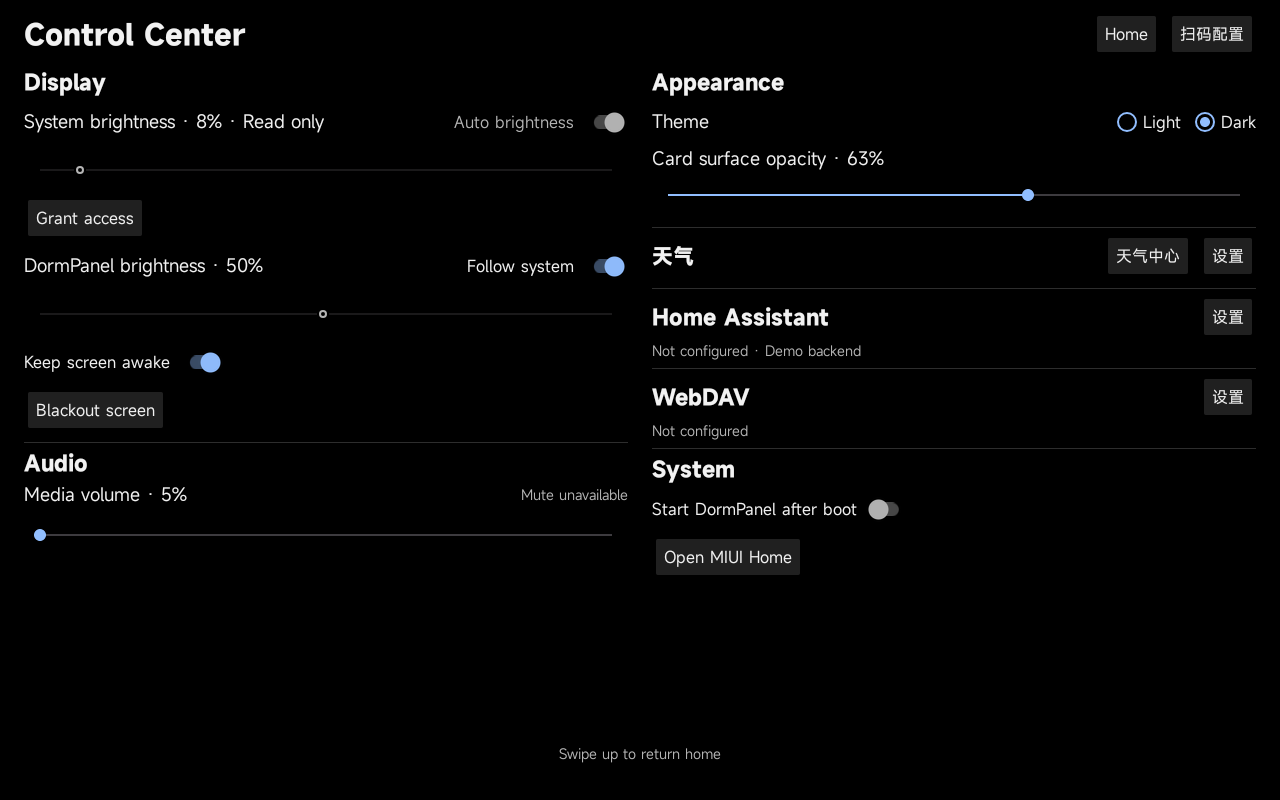
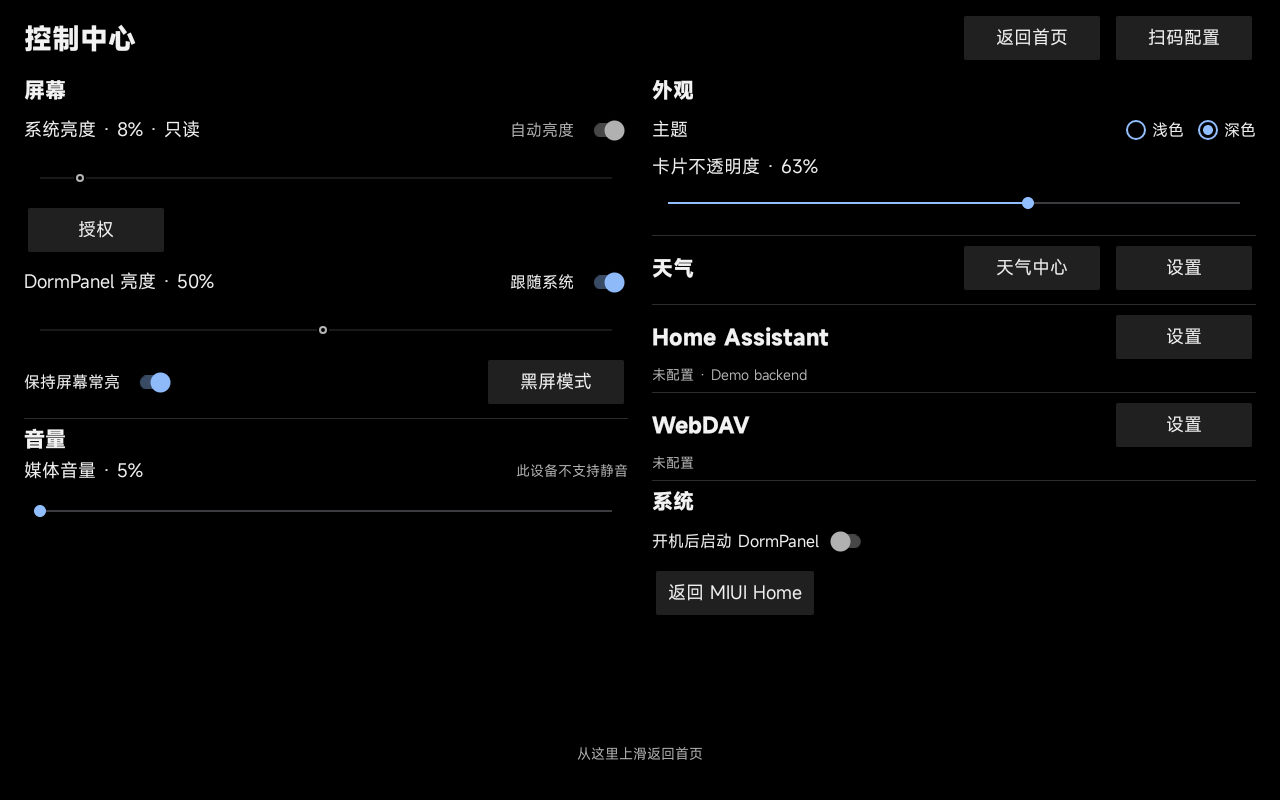
放宽控制中心按钮并补齐中文界面

diff --git a/app/src/androidTest/java/com/dormpanel/app/ControlCenterAndroidTest.kt b/app/src/androidTest/java/com/dormpanel/app/ControlCenterAndroidTest.kt
@@ -65,16 +65,17 @@ class ControlCenterAndroidTest {
         try {
             ActivityScenario.launch(MainActivity::class.java).use { scenario ->
                 openControlCenter()
-                onView(withText("Not configured · Demo backend")).check(matches(isDisplayed()))
-                onView(withText("Not configured")).check(matches(isDisplayed()))
-                onView(withText("Mute unavailable")).check(matches(isDisplayed()))
-                onView(withText("Mute")).check(matches(not(isDisplayed())))
-                onView(withContentDescription("Allow system brightness control")).check(matches(isDisplayed()))
-                onView(withContentDescription("System brightness")).check(matches(isNotEnabled()))
-                checkHeadingAction("Home Assistant", "Home Assistant settings")
+                onView(withText("${context.getString(R.string.control_center_not_configured)} · Demo backend")).check(matches(isDisplayed()))
+                onView(withText(R.string.control_center_not_configured)).check(matches(isDisplayed()))
+                onView(withText(R.string.control_center_mute_unavailable)).check(matches(isDisplayed()))
+                onView(withText(R.string.control_center_mute)).check(matches(not(isDisplayed())))
+                onView(withContentDescription(R.string.control_center_grant_description)).check(matches(isDisplayed()))
+                onView(withContentDescription(R.string.control_center_system_brightness)).check(matches(isNotEnabled()))
+                checkInlineAction(withText("Home Assistant"), withContentDescription(R.string.ha_settings))
                 checkHeadingAction("WebDAV", "WebDAV 连接设置")
+                checkInlineAction(withText(R.string.control_center_awake), withText(R.string.control_center_blackout))
 
-                onView(withContentDescription("Home Assistant settings")).perform(click())
+                onView(withContentDescription(R.string.ha_settings)).perform(click())
                 onView(withText("Home Assistant base URL")).inRoot(isDialog()).check(matches(isDisplayed()))
                 onView(withText("Close")).inRoot(isDialog()).perform(click())
                 onView(withContentDescription("WebDAV 连接设置")).perform(click())
@@ -94,10 +95,10 @@ class ControlCenterAndroidTest {
                     assertEquals(!(savedBoot ?: false), enabled)
                     assertEquals(enabled, it.findViewById<CompoundButton>(R.id.start_after_boot).isChecked)
                 }
-                onView(withText("Blackout screen")).perform(scrollTo(), click())
+                onView(withText(R.string.control_center_blackout)).perform(scrollTo(), click())
                 onView(withId(R.id.blackout_surface)).check(matches(isDisplayed())).perform(click())
-                onView(withContentDescription("Return to DormPanel home")).perform(click())
-                onView(withText("Control Center")).check(doesNotExist())
+                onView(withContentDescription(R.string.control_center_home_description)).perform(click())
+                onView(withText(R.string.control_center_title)).check(doesNotExist())
             }
         } finally {
             ha.write(savedHa)
@@ -126,7 +127,7 @@ class ControlCenterAndroidTest {
                 val drag = GeneralSwipeAction(Swipe.FAST,
                     { view -> point(view, .50f, .88f) }, { view -> point(view, .50f, .15f) }, Press.FINGER)
                 repeat(3) { scroll.perform(drag) }
-                onView(withText("Control Center")).check(matches(isDisplayed()))
+                onView(withText(R.string.control_center_title)).check(matches(isDisplayed()))
                 onView(withId(R.id.open_miui_home)).check(matches(isDisplayed()))
                 scenario.onActivity {
                     val viewport = it.findViewById<ScrollView>(R.id.control_center_scroll)
@@ -138,13 +139,13 @@ class ControlCenterAndroidTest {
                     assertEquals(savedOffset, viewport.scrollY)
                 }
                 scenario.recreate()
-                onView(withText("Control Center")).check(matches(isDisplayed()))
+                onView(withText(R.string.control_center_title)).check(matches(isDisplayed()))
                 val footer = onView(withText(R.string.return_home_up))
                 footer.perform(GeneralSwipeAction(Swipe.FAST,
                     { view -> point(view, .50f, .5f) },
                     { view -> point(view, .50f, .5f).apply { this[1] -= 160 } },
                     Press.FINGER))
-                onView(withText("Control Center")).check(doesNotExist())
+                onView(withText(R.string.control_center_title)).check(doesNotExist())
             }
         } finally {
             store.write(previous)
@@ -166,7 +167,7 @@ class ControlCenterAndroidTest {
                     val backend = ViewModelProvider(it)[DashboardViewModel::class.java].dataSource
                     backend.ha.configure(HaConnectionSettings(BackendMode.HOME_ASSISTANT, endpoint), "test")
                 }
-                val text = "Authentication error · Authentication rejected; re-enter credentials."
+                val text = "${context.getString(R.string.control_center_auth_error)} · Authentication rejected; re-enter credentials."
                 val statusText = onView(withText(text))
                 val deadline = android.os.SystemClock.uptimeMillis() + 5000
                 var ready = false
@@ -183,9 +184,9 @@ class ControlCenterAndroidTest {
                     if (error != null) throw error
                     (view as TextView).text = longText
                 }
-                checkHeadingAction("Home Assistant", "Home Assistant settings")
+                checkInlineAction(withText("Home Assistant"), withContentDescription(R.string.ha_settings))
                 val actionBounds = Rect()
-                onView(withContentDescription("Home Assistant settings")).check { view, _ ->
+                onView(withContentDescription(R.string.ha_settings)).check { view, _ ->
                     assertTrue(view.getGlobalVisibleRect(actionBounds))
                 }
                 onView(withText(longText)).check { view, _ ->
@@ -218,10 +219,10 @@ class ControlCenterAndroidTest {
                 for (mode in ThemeMode.entries) panel.applyAppearance(model.appearance.state.copy(themeMode = mode))
                 assertEquals(1.5f, panel.resources.configuration.fontScale, 0f)
             }
-            checkHeadingAction("Home Assistant", "Home Assistant settings")
+            checkInlineAction(withText("Home Assistant"), withContentDescription(R.string.ha_settings))
             checkHeadingAction("WebDAV", "WebDAV 连接设置")
-            onView(withText("Not configured · Demo backend")).check(matches(isDisplayed()))
-            onView(withText("Follow system")).check(matches(isDisplayed()))
+            onView(withText("${context.getString(R.string.control_center_not_configured)} · Demo backend")).check(matches(isDisplayed()))
+            onView(withText(R.string.control_center_follow)).check(matches(isDisplayed()))
             onView(withId(R.id.open_miui_home)).perform(scrollTo()).check(matches(isDisplayed()))
             onView(withContentDescription("天气服务与地点")).perform(scrollTo(), click())
             onView(withText("搜索城市或区县")).inRoot(isDialog()).check(matches(isDisplayed()))
@@ -266,21 +267,21 @@ class ControlCenterAndroidTest {
                 }
                 panel.applyAppearance(model.appearance.state)
             }
-            onView(withText("Mute")).perform(click())
+            onView(withText(R.string.control_center_mute)).perform(click())
             assertTrue(muted)
-            onView(withText("Unmute")).perform(click())
+            onView(withText(R.string.control_center_unmute)).perform(click())
             assertFalse(muted)
             scenario.onActivity {
                 volume = 8
                 device.refreshAudio()
             }
-            onView(withText("Media volume · 80%")).check(matches(isDisplayed()))
-            onView(withContentDescription("Media volume")).check { view, _ -> assertEquals(0, (view as SeekBar).min) }
-            onView(withContentDescription("System brightness")).check(matches(isNotEnabled()))
-            onView(withContentDescription("Automatic system brightness")).perform(click())
-            onView(withContentDescription("System brightness")).check(matches(isEnabled()))
-            onView(withText("Follow system")).perform(click())
-            onView(withContentDescription("DormPanel brightness")).check(matches(isNotEnabled()))
+            onView(withText(context.getString(R.string.control_center_volume_value, 80))).check(matches(isDisplayed()))
+            onView(withContentDescription(R.string.control_center_volume)).check { view, _ -> assertEquals(0, (view as SeekBar).min) }
+            onView(withContentDescription(R.string.control_center_system_brightness)).check(matches(isNotEnabled()))
+            onView(withContentDescription(R.string.control_center_auto_description)).perform(click())
+            onView(withContentDescription(R.string.control_center_system_brightness)).check(matches(isEnabled()))
+            onView(withText(R.string.control_center_follow)).perform(click())
+            onView(withContentDescription(R.string.control_center_brightness)).check(matches(isNotEnabled()))
         }
     }
 
@@ -290,12 +291,18 @@ class ControlCenterAndroidTest {
 
     private fun openControlCenter() = onView(withId(R.id.page_container)).perform(swipeDown())
 
-    private fun checkHeadingAction(title: String, description: String) {
+    private fun checkHeadingAction(title: String, description: String) =
+        checkInlineAction(withText(title), withContentDescription(description))
+
+    private fun checkInlineAction(leading: org.hamcrest.Matcher<View>, trailing: org.hamcrest.Matcher<View>) {
         val heading = Rect()
-        onView(withText(title)).check { view, _ -> assertTrue(view.getGlobalVisibleRect(heading)) }
-        onView(withContentDescription(description)).check { view, _ ->
+        onView(leading).check { view, _ -> assertTrue(view.getGlobalVisibleRect(heading)) }
+        onView(trailing).check { view, _ ->
             val action = Rect()
             assertTrue(view.getGlobalVisibleRect(action))
+            val density = view.resources.displayMetrics.density
+            assertTrue(action.height() >= (56 * density).toInt())
+            assertTrue(action.width() >= (144 * density).toInt())
             assertTrue(heading.right <= action.left)
             assertTrue(heading.centerY() in action.top until action.bottom)
         }

diff --git a/app/src/main/java/com/dormpanel/app/ui/ControlCenterView.kt b/app/src/main/java/com/dormpanel/app/ui/ControlCenterView.kt
@@ -75,19 +75,19 @@ class ControlCenterView(
 
     private val brightnessLabel = label(size = 18f)
     private val systemLabel = label(size = 18f)
-    private val systemBrightness = slider("System brightness").apply { min = 1 }
-    private val automatic = toggle("Auto brightness").apply { contentDescription = "Automatic system brightness" }
-    private val followSystem = toggle("Follow system")
-    private val allowSystem = action("Grant access", "Allow system brightness control", ::requestBrightnessAccess)
+    private val systemBrightness = slider(context.getString(R.string.control_center_system_brightness)).apply { min = 1 }
+    private val automatic = toggle(context.getString(R.string.control_center_auto)).apply { contentDescription = context.getString(R.string.control_center_auto_description) }
+    private val followSystem = toggle(context.getString(R.string.control_center_follow))
+    private val allowSystem = action(context.getString(R.string.control_center_grant), context.getString(R.string.control_center_grant_description), ::requestBrightnessAccess)
     private val permissionStatus = secondaryLabel().apply { visibility = GONE }
     private val volumeLabel = label(size = 18f)
-    private val muteUnavailable = secondaryLabel("Mute unavailable")
+    private val muteUnavailable = secondaryLabel(context.getString(R.string.control_center_mute_unavailable))
     private val opacityLabel = label(size = 18f)
-    private val brightness = slider("DormPanel brightness").apply { min = 1 }
-    private val volume = slider("Media volume")
+    private val brightness = slider(context.getString(R.string.control_center_brightness)).apply { min = 1 }
+    private val volume = slider(context.getString(R.string.control_center_volume))
     private val opacity = slider(context.getString(R.string.card_opacity))
-    private val keepAwake = toggle("Keep screen awake")
-    private val mute = action("Mute") { device.toggleMute() }
+    private val keepAwake = toggle(context.getString(R.string.control_center_awake))
+    private val mute = action(context.getString(R.string.control_center_mute)) { device.toggleMute() }
     private val haStatus = secondaryLabel()
     private val webDavStatus = secondaryLabel()
     private val startAfterBoot = toggle(context.getString(R.string.start_after_boot)).apply { id = R.id.start_after_boot }
@@ -153,12 +153,12 @@ class ControlCenterView(
         text = value
         contentDescription = description
         isAllCaps = false
-        textSize = 16f
-        minimumHeight = dp(48)
-        minHeight = dp(48)
-        minimumWidth = dp(48)
-        minWidth = dp(48)
-        setPadding(dp(12), dp(4), dp(12), dp(4))
+        textSize = 18f
+        minimumHeight = dp(56)
+        minHeight = dp(56)
+        minimumWidth = dp(144)
+        minWidth = dp(144)
+        setPadding(dp(16), dp(6), dp(16), dp(6))
         setOnClickListener {
             onGestureClaimed()
             click()
@@ -223,34 +223,38 @@ class ControlCenterView(
     }
     private val deviceListener: (DeviceControlState) -> Unit = {
         brightness.progress = it.brightness
-        brightnessLabel.text = "DormPanel brightness · ${it.brightness}%"
+        brightnessLabel.text = context.getString(R.string.control_center_brightness_value, it.brightness)
         brightness.isEnabled = !it.useSystemBrightness
         followSystem.isChecked = it.useSystemBrightness
         systemBrightness.progress = it.system.percent
         systemBrightness.isEnabled = it.system.canWrite && !it.system.automatic
         automatic.isChecked = it.system.automatic
         automatic.isEnabled = it.system.canWrite
-        systemLabel.text = "System brightness · ${it.system.percent}%${if (it.system.canWrite) "" else " · Read only"}"
+        val systemValue = context.getString(R.string.control_center_system_brightness_value, it.system.percent)
+        systemLabel.text = if (it.system.canWrite) systemValue else {
+            "$systemValue · ${context.getString(R.string.control_center_read_only)}"
+        }
         allowSystem.visibility = if (it.system.canWrite) View.GONE else View.VISIBLE
         if (it.system.canWrite) permissionStatus.visibility = View.GONE
         volume.min = if (it.muteAvailable) 0 else (100f / it.mediaMax).roundToInt()
         volume.progress = it.mediaPercent
-        volumeLabel.text = "Media volume · ${it.mediaPercent}%"
+        volumeLabel.text = context.getString(R.string.control_center_volume_value, it.mediaPercent)
         keepAwake.isChecked = it.keepAwake
         mute.visibility = if (it.muteAvailable) VISIBLE else GONE
         muteUnavailable.visibility = if (it.muteAvailable) GONE else VISIBLE
-        mute.text = if (it.muted) "Unmute" else "Mute"
+        mute.setText(if (it.muted) R.string.control_center_unmute else R.string.control_center_mute)
     }
     private val haListener: (HaStatus) -> Unit = { status ->
-        val state = when (status.state) {
-            HaConnectionState.NOT_CONFIGURED -> "Not configured"
-            HaConnectionState.CONNECTING -> "Connecting"
-            HaConnectionState.SYNCING -> "Syncing"
-            HaConnectionState.CONNECTED -> "Connected"
-            HaConnectionState.RECONNECTING -> "Reconnecting"
-            HaConnectionState.AUTH_ERROR -> "Authentication error"
-            HaConnectionState.ERROR -> "Connection error"
+        val stateLabel = when (status.state) {
+            HaConnectionState.NOT_CONFIGURED -> R.string.control_center_not_configured
+            HaConnectionState.CONNECTING -> R.string.control_center_connecting
+            HaConnectionState.SYNCING -> R.string.control_center_syncing
+            HaConnectionState.CONNECTED -> R.string.control_center_connected
+            HaConnectionState.RECONNECTING -> R.string.control_center_reconnecting
+            HaConnectionState.AUTH_ERROR -> R.string.control_center_auth_error
+            HaConnectionState.ERROR -> R.string.control_center_connection_error
         }
+        val state = context.getString(stateLabel)
         haStatus.text = if (status.detail.isBlank()) state else "$state · ${status.detail}"
     }
 
@@ -258,7 +262,7 @@ class ControlCenterView(
         orientation = VERTICAL
         setPadding(dp(24), dp(10), dp(24), dp(24))
         val title = label(context.getString(R.string.control_center_title), 28f, heading = true)
-        val home = action("Home", "Return to DormPanel home", onReturnHome)
+        val home = action(context.getString(R.string.control_center_home), context.getString(R.string.control_center_home_description), onReturnHome)
         val headerActions = listOfNotNull(home, openPortal?.let { action("扫码配置", click = it) })
         addView(row(title, *headerActions.toTypedArray()), LayoutParams(LayoutParams.MATCH_PARENT, LayoutParams.WRAP_CONTENT).apply {
             bottomMargin = dp(8)
@@ -277,22 +281,23 @@ class ControlCenterView(
         columns.addView(left, LayoutParams(0, LayoutParams.WRAP_CONTENT, 1f).apply { marginEnd = dp(24) })
         columns.addView(right, LayoutParams(0, LayoutParams.WRAP_CONTENT, 1f))
 
-        left.heading("Display")
+        left.heading(context.getString(R.string.control_center_display))
         left.addView(row(systemLabel, automatic))
         left.addView(systemBrightness)
         left.addView(allowSystem, LayoutParams(LayoutParams.WRAP_CONTENT, LayoutParams.WRAP_CONTENT))
         left.addView(permissionStatus)
         left.addView(row(brightnessLabel, followSystem))
         left.addView(brightness)
-        left.addView(keepAwake, LayoutParams(LayoutParams.WRAP_CONTENT, LayoutParams.WRAP_CONTENT))
-        left.addView(action("Blackout screen") { device.enterBlackout() },
-            LayoutParams(LayoutParams.WRAP_CONTENT, LayoutParams.WRAP_CONTENT))
-        left.heading("Audio")
+        val awakeToggle = LinearLayout(context).apply {
+            addView(keepAwake, LayoutParams(LayoutParams.WRAP_CONTENT, LayoutParams.WRAP_CONTENT))
+        }
+        left.addView(row(awakeToggle, action(context.getString(R.string.control_center_blackout)) { device.enterBlackout() }))
+        left.heading(context.getString(R.string.control_center_audio))
         left.addView(row(volumeLabel, mute, muteUnavailable))
         left.addView(volume)
 
-        right.heading("Appearance")
-        right.addView(row(label("Theme", 18f), modes))
+        right.heading(context.getString(R.string.control_center_appearance))
+        right.addView(row(label(context.getString(R.string.control_center_theme), 18f), modes))
         right.addView(opacityLabel)
         right.addView(opacity)
         if (backend != null) {
@@ -379,17 +384,16 @@ class ControlCenterView(
             context.startActivity(Intent(Settings.ACTION_MANAGE_WRITE_SETTINGS,
                 Uri.parse("package:${context.packageName}")))
         } catch (_: Exception) {
-            permissionStatus.text = "System brightness access is unavailable on this device."
+            permissionStatus.text = context.getString(R.string.control_center_grant_failed)
             permissionStatus.visibility = VISIBLE
         }
     }
 
     private fun updateWebDavStatus() {
         val account = webDavSettings?.account()
-        webDavStatus.text = if (account == null) "Not configured" else {
-            val host = Uri.parse(account.baseUrl).host
-            if (host.isNullOrBlank()) "Configured" else "Configured · $host"
-        }
+        val label = context.getString(if (account == null) R.string.control_center_not_configured else R.string.control_center_configured)
+        val host = account?.let { Uri.parse(it.baseUrl).host }
+        webDavStatus.text = if (host.isNullOrBlank()) label else "$label · $host"
     }
 
     private fun showWebDavSettings() {

diff --git a/app/src/androidTest/java/com/dormpanel/app/DeviceControlAndroidTest.kt b/app/src/androidTest/java/com/dormpanel/app/DeviceControlAndroidTest.kt
@@ -174,17 +174,17 @@ class DeviceControlAndroidTest {
         try {
             ActivityScenario.launch(MainActivity::class.java).use { scenario ->
                 onView(withId(R.id.page_container)).perform(swipeDown())
-                onView(withText("Control Center")).check(matches(isDisplayed()))
-                onView(withContentDescription("Automatic system brightness")).check(matches(isDisplayed()))
-                onView(withText("Follow system")).check(matches(isDisplayed()))
-                onView(withContentDescription("System brightness")).check(matches(isDisplayed()))
-                onView(withContentDescription("DormPanel brightness")).check(matches(isDisplayed()))
-                onView(withContentDescription("Allow system brightness control")).check(matches(isDisplayed()))
+                onView(withText(R.string.control_center_title)).check(matches(isDisplayed()))
+                onView(withContentDescription(R.string.control_center_auto_description)).check(matches(isDisplayed()))
+                onView(withText(R.string.control_center_follow)).check(matches(isDisplayed()))
+                onView(withContentDescription(R.string.control_center_system_brightness)).check(matches(isDisplayed()))
+                onView(withContentDescription(R.string.control_center_brightness)).check(matches(isDisplayed()))
+                onView(withContentDescription(R.string.control_center_grant_description)).check(matches(isDisplayed()))
                 scenario.onActivity { ViewModelProvider(it)[DashboardViewModel::class.java].deviceControls.setFollowSystem(false) }
-                onView(withContentDescription("DormPanel brightness")).perform(swipeRight())
-                onView(withText("Control Center")).check(matches(isDisplayed()))
-                onView(withContentDescription("Media volume")).perform(swipeLeft())
-                onView(withText("Control Center")).check(matches(isDisplayed()))
+                onView(withContentDescription(R.string.control_center_brightness)).perform(swipeRight())
+                onView(withText(R.string.control_center_title)).check(matches(isDisplayed()))
+                onView(withContentDescription(R.string.control_center_volume)).perform(swipeLeft())
+                onView(withText(R.string.control_center_title)).check(matches(isDisplayed()))
                 scenario.onActivity {
                     audio.setStreamVolume(AudioManager.STREAM_MUSIC, 8, 0)
                 }

diff --git a/app/src/androidTest/java/com/dormpanel/app/CoreDashboardTest.kt b/app/src/androidTest/java/com/dormpanel/app/CoreDashboardTest.kt
@@ -201,15 +201,15 @@ class CoreDashboardTest {
         ActivityScenario.launch(MainActivity::class.java).use { scenario ->
             waitForCards(scenario)
             navigate(swipe(.5f, .2f, .5f, .8f))
-            onView(withText("Light")).perform(ViewActions.click())
-            onView(withContentDescription("Card surface opacity")).perform(swipe(.9f, .5f, .05f, .5f))
-            onView(withText("Control Center")).check(matches(isDisplayed()))
+            onView(withText(R.string.theme_light)).perform(ViewActions.click())
+            onView(withContentDescription(R.string.card_opacity)).perform(swipe(.9f, .5f, .05f, .5f))
+            onView(withText(R.string.control_center_title)).check(matches(isDisplayed()))
             scenario.onActivity {
                 assertEquals(ThemeMode.LIGHT, model(it).appearance.state.themeMode)
                 assertTrue(model(it).appearance.state.cardSurfaceOpacity < .15f)
                 assertEquals(model(it).appearance.state, PreferencesAppearanceStore(it).read())
             }
-            onView(withContentDescription("Return to DormPanel home")).perform(ViewActions.click())
+            onView(withContentDescription(R.string.control_center_home_description)).perform(ViewActions.click())
             onView(card("Desk light")).check(matches(isDisplayed()))
             scenario.onActivity {
                 val root = it.findViewById<ViewGroup>(R.id.page_container)

diff --git a/docs/verification/pr82-control-center.md b/docs/verification/pr82-control-center.md
@@ -1,16 +1,16 @@
 # PR82 · X08E 控制中心布局
 
-- 顶部固定显示控制中心标题、DormPanel 首页按钮和统一扫码配置。底部的「Swipe up to return home」是固定上滑区，从该区域起手可返回首页。
+- 顶部固定显示控制中心标题、DormPanel 首页按钮和统一扫码配置。底部的「从这里上滑返回首页」是固定上滑区，从该区域起手可返回首页。
 - 两列共用一个滚动容器。左列是设备显示和音量，右列是外观、天气、Home Assistant、WebDAV 和系统。内容区起手的竖滑由滚动容器处理，滑块继续认领自己的触摸流。
-- 标题、开关和操作使用 dp/sp 排版。按钮、开关、主题选项和滑块保留至少 48dp 高的触控区。长服务状态在独立行完整换行，并随内容一起滚动。
-- 系统亮度只读时保留授权按钮。本机不支持静音时在音量旁显示提示。支持静音时，同一位置切换 Mute 和 Unmute。
+- 标题、开关和操作使用 dp/sp 排版。按钮使用 18sp 文本及至少 144×56dp 的触控区。开关、主题选项和滑块保留约 48dp 高的触控区。长服务状态在独立行完整换行，并随内容一起滚动。
+- 系统亮度只读时保留授权按钮。黑屏按钮位于常亮开关行的最右侧。本机不支持静音时在音量旁显示提示。支持静音时，同一位置切换「静音」和「取消静音」。
 - HA 和 WebDAV 的设置位于各自标题右端。天气设置和天气中心共享天气标题行。WebDAV 已配置时显示服务主机名。
 
 ## 验证范围
 
 在 X08E（Android 9、1280×800、160 dpi）使用隔离测试包 `com.dormpanel.app.testbed`。默认字体下检查首屏，在控制中心的测试视图中单独应用 150% 字体，在较矮的测试视口中用触摸滚动至末项。HA 鉴权错误来自本地 WebSocket 测试服务，另外用加长文本检查完整换行。支持静音的设备分支使用测试音量端口，X08E 的无静音分支和实际媒体音量由实机覆盖。
 
-Android Debug 和隔离测试 APK 构建成功。19 项相关仪器用例通过，包含实际设备滑块拖动、外部音量观察、系统亮度有权和无权、主题切换及页面重建、扫码、HA、WebDAV、天气、黑屏、开机自启和返回手势。授权亮度用例完成后恢复系统亮度原值及自动模式。另在实机点击「Open MIUI Home」，确认前台切换到 `com.xiaomi.micolauncher/.Launcher`。
+Android Debug 和隔离测试 APK 构建成功。19 项相关仪器用例通过，包含实际设备滑块拖动、外部音量观察、系统亮度有权和无权、主题切换及页面重建、扫码、HA、WebDAV、天气、黑屏、开机自启和返回手势。授权亮度用例完成后恢复系统亮度原值及自动模式。另在实机点击「返回 MIUI Home」，确认前台切换到 `com.xiaomi.micolauncher/.Launcher`。
 
 系统级字体修改触发了设备 ROM 的 SystemUI 崩溃提示，已恢复原字号并关闭提示。150% 字体结果来自实机上的视图级配置。静音切换使用替代音量端口验证，未另接支持静音的物理设备。
 
